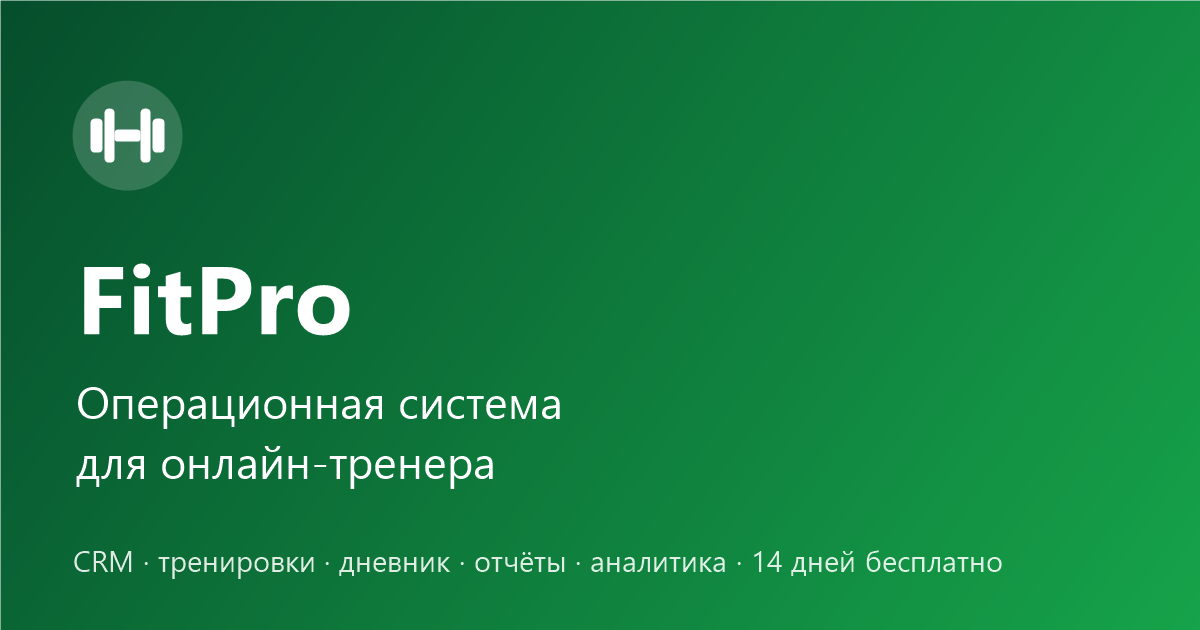
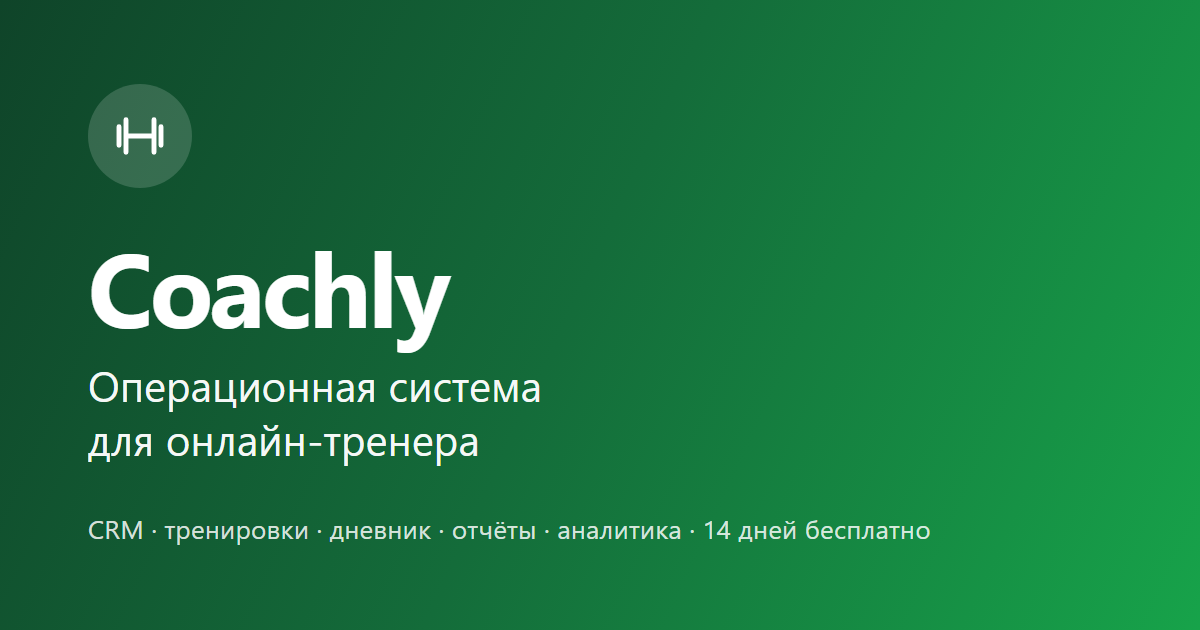
feat(brand): переименование FitPro → Coachly
Пользовательские тексты: интерфейс обоих кабинетов, лендинги, письма
(регистрация, подтверждение почты, сброс пароля, приглашение клиента),
заголовки пуш-уведомлений, описание платежа в ЮKassa, мета-теги и
og-картинка предпросмотра (перерисована), display name iOS и Android.

Идентификаторы НЕ тронуты намеренно: bundle com.oasixlab.fitpro,
имя Xcode-проекта FitPro (на него завязан codemagic.yaml), домен
fitpro.oasixlab.com, пути /opt/fitpro, ключи localStorage (fitpro-theme,
fitpro-draft — смена обнулила бы черновики и тему у пользователей),
демо-логины *@user.ru.

diff --git a/client/src/pages/ForClientsPage.tsx b/client/src/pages/ForClientsPage.tsx
@@ -106,7 +106,7 @@ const BENEFITS = [
 const STEPS = [
   {
     title: "Тренер присылает ссылку",
-    text: "Он создаёт вашу карточку в FitPro и копирует персональную ссылку (или отправляет её на почту). Без этой ссылки зарегистрироваться нельзя.",
+    text: "Он создаёт вашу карточку в Coachly и копирует персональную ссылку (или отправляет её на почту). Без этой ссылки зарегистрироваться нельзя.",
     tip: "Приглашение",
   },
   {
@@ -191,7 +191,7 @@ const PLUS_FEATURES = [
 const FAQ = [
   {
     q: "Сколько это стоит?",
-    a: "Для вас — бесплатно. Платформу оплачивает тренер. Дополнительные опции FitPro+ появятся позже и будут по желанию.",
+    a: "Для вас — бесплатно. Платформу оплачивает тренер. Дополнительные опции Coachly+ появятся позже и будут по желанию.",
   },
   {
     q: "Как попасть в кабинет?",
@@ -206,7 +206,7 @@ const FAQ = [
     a: "Только ваш тренер. Фото и замеры не попадают в общий доступ.",
   },
   {
-    q: "Тренер ещё не в FitPro. Что делать?",
+    q: "Тренер ещё не в Coachly. Что делать?",
     a: "Отправьте ему ссылку fitpro.oasixlab.com — у тренеров есть 14 дней бесплатного доступа.",
   },
 ];
@@ -229,7 +229,7 @@ const DEMO_ACCOUNTS = [
 export function ForClientsPage() {
   useEffect(() => {
     const prev = document.title;
-    document.title = "FitPro для клиента — тренировки, прогресс и тренер в одном кабинете";
+    document.title = "Coachly для клиента — тренировки, прогресс и тренер в одном кабинете";
     return () => {
       document.title = prev;
     };
@@ -243,7 +243,7 @@ export function ForClientsPage() {
             <div className="flex h-9 w-9 items-center justify-center rounded-xl bg-primary text-primary-foreground">
               <Dumbbell className="h-[18px] w-[18px]" />
             </div>
-            <span className="text-lg font-semibold tracking-tight">FitPro</span>
+            <span className="text-lg font-semibold tracking-tight">Coachly</span>
           </Link>
           <nav className="hidden items-center gap-1 text-sm font-medium text-muted-foreground lg:flex">
             {[
@@ -251,7 +251,7 @@ export function ForClientsPage() {
               { href: "#app", label: "Экраны" },
               { href: "#how", label: "Как начать" },
               { href: "#demo", label: "Демо" },
-              { href: "#plus", label: "FitPro+" },
+              { href: "#plus", label: "Coachly+" },
               { href: "#faq", label: "Вопросы" },
             ].map((item) => (
               <a
@@ -341,7 +341,7 @@ export function ForClientsPage() {
               </div>
               <img
                 src="/screens/m-client-home.png"
-                alt="Главная клиента FitPro"
+                alt="Главная клиента Coachly"
                 className="aspect-[9/19.5] w-full rounded-[1.55rem] object-cover object-top"
                 width={780}
                 height={1688}
@@ -413,7 +413,7 @@ export function ForClientsPage() {
         subtitle="Зайдите как клиент Мария — увидите программу, дневник и прогресс. Пароль один для обоих аккаунтов."
       />
 
-      <MktSection id="plus" eyebrow="FitPro+" title="Дополнительно — когда захотите больше">
+      <MktSection id="plus" eyebrow="Coachly+" title="Дополнительно — когда захотите больше">
         <div className="relative overflow-hidden rounded-2xl border border-primary/20 bg-gradient-to-br from-primary/[0.08] via-card to-card p-8 shadow-panel sm:p-10">
           <div className="pointer-events-none absolute -right-16 -top-16 h-48 w-48 rounded-full bg-primary/10 blur-3xl" />
           <div className="relative mb-8 max-w-2xl">
@@ -444,7 +444,7 @@ export function ForClientsPage() {
 
       <MktCtaBanner
         eyebrow="Готовы начать"
-        title="Попросите тренера перейти в FitPro"
+        title="Попросите тренера перейти в Coachly"
         subtitle="Если ссылка уже есть — входите. Если нет — отправьте тренеру fitpro.oasixlab.com: у него 14 дней бесплатно, у вас — удобный кабинет."
       >
         <Button size="lg" className="h-12 px-8" asChild>
@@ -461,7 +461,7 @@ export function ForClientsPage() {
         <div className="mx-auto flex max-w-6xl flex-col items-center gap-5 px-4 py-12 text-center">
           <div>
             <p className="type-eyebrow mb-2">Скачать</p>
-            <h2 className="text-xl font-semibold tracking-tight">FitPro в магазинах</h2>
+            <h2 className="text-xl font-semibold tracking-tight">Coachly в магазинах</h2>
           </div>
           <StoreBadges />
         </div>
@@ -473,7 +473,7 @@ export function ForClientsPage() {
             <div className="flex h-6 w-6 items-center justify-center rounded-md bg-primary text-primary-foreground">
               <Dumbbell className="h-3.5 w-3.5" />
             </div>
-            <span className="font-semibold text-foreground">FitPro Platform</span>
+            <span className="font-semibold text-foreground">Coachly</span>
           </div>
           <div className="flex flex-wrap items-center justify-center gap-x-5 gap-y-2">
             <Link to="/" className="transition-colors hover:text-foreground">
@@ -486,7 +486,7 @@ export function ForClientsPage() {
               FAQ
             </a>
           </div>
-          <p className="text-xs">© 2026 FitPro · для спортсменов и тренеров</p>
+          <p className="text-xs">© 2026 Coachly · для спортсменов и тренеров</p>
         </div>
       </footer>
     </div>

diff --git a/server/src/routes/auth.ts b/server/src/routes/auth.ts
@@ -75,15 +75,15 @@ authRouter.post(
       const code = await createEmailCode(user.email, "verify");
       await sendEmail({
         to: user.email,
-        subject: "Добро пожаловать в FitPro",
+        subject: "Добро пожаловать в Coachly",
         html: emailHtml({
           title: `Здравствуйте, ${user.name}!`,
           intro: `Аккаунт тренера создан, пробный период — ${TRIAL_DAYS} дней. Чтобы подтвердить почту, введите код в личном кабинете:`,
           code,
-          ctaText: "Открыть FitPro",
+          ctaText: "Открыть Coachly",
           ctaUrl: env.publicUrl,
         }),
-        text: `Добро пожаловать в FitPro! Код подтверждения почты: ${code}`,
+        text: `Добро пожаловать в Coachly! Код подтверждения почты: ${code}`,
       });
     })().catch((err) => console.error("register: welcome email:", err));
 
@@ -172,13 +172,13 @@ authRouter.post(
     const code = await createEmailCode(email, "verify");
     await sendEmail({
       to: email,
-      subject: "Подтверждение почты — FitPro",
+      subject: "Подтверждение почты — Coachly",
       html: emailHtml({
         title: "Подтвердите адрес почты",
-        intro: "Введите этот код в личном кабинете FitPro:",
+        intro: "Введите этот код в личном кабинете Coachly:",
         code,
       }),
-      text: `Код подтверждения почты FitPro: ${code} (действует 15 минут)`,
+      text: `Код подтверждения почты Coachly: ${code} (действует 15 минут)`,
     });
     res.json({ ok: true });
   }),
@@ -212,14 +212,14 @@ authRouter.post(
         const code = await createEmailCode(normalized, "reset");
         await sendEmail({
           to: normalized,
-          subject: "Сброс пароля — FitPro",
+          subject: "Сброс пароля — Coachly",
           html: emailHtml({
             title: "Сброс пароля",
             intro:
-              "Вы запросили сброс пароля в FitPro. Введите этот код на странице восстановления:",
+              "Вы запросили сброс пароля в Coachly. Введите этот код на странице восстановления:",
             code,
           }),
-          text: `Код сброса пароля FitPro: ${code} (действует 15 минут)`,
+          text: `Код сброса пароля Coachly: ${code} (действует 15 минут)`,
         });
       }
     }

diff --git a/client/index.html b/client/index.html
@@ -3,10 +3,10 @@
   <head>
     <meta charset="UTF-8" />
     <meta name="viewport" content="width=device-width, initial-scale=1.0" />
-    <title>FitPro — платформа онлайн-тренера</title>
+    <title>Coachly — платформа онлайн-тренера</title>
     <meta
       name="description"
-      content="FitPro — операционная система для онлайн-тренера: CRM клиентов, конструктор тренировок, дневник, отчёты, аналитика и финансы в одном кабинете. 14 дней бесплатно."
+      content="Coachly — операционная система для онлайн-тренера: CRM клиентов, конструктор тренировок, дневник, отчёты, аналитика и финансы в одном кабинете. 14 дней бесплатно."
     />
     <meta name="theme-color" media="(prefers-color-scheme: light)" content="#f5f1ea" />
     <meta name="theme-color" media="(prefers-color-scheme: dark)" content="#151515" />
@@ -24,15 +24,15 @@
     </script>
     <meta property="og:type" content="website" />
     <meta property="og:locale" content="ru_RU" />
-    <meta property="og:site_name" content="FitPro" />
-    <meta property="og:title" content="FitPro — платформа онлайн-тренера" />
+    <meta property="og:site_name" content="Coachly" />
+    <meta property="og:title" content="Coachly — платформа онлайн-тренера" />
     <meta
       property="og:description"
       content="CRM, тренировки, дневник, отчёты и аналитика — всё ведение клиентов в одном месте. 14 дней бесплатно."
     />
     <meta property="og:image" content="/og.png" />
     <meta name="twitter:card" content="summary_large_image" />
-    <meta name="twitter:title" content="FitPro — платформа онлайн-тренера" />
+    <meta name="twitter:title" content="Coachly — платформа онлайн-тренера" />
     <meta
       name="twitter:description"
       content="CRM, тренировки, дневник, отчёты и аналитика — всё ведение клиентов в одном месте."

diff --git a/client/src/pages/LandingPage.tsx b/client/src/pages/LandingPage.tsx
@@ -231,7 +231,7 @@ export function LandingPage() {
         <div className="mx-auto flex max-w-6xl items-center justify-between gap-3 px-4 py-3">
           <Link to="/" className="flex items-center gap-2.5 transition-opacity hover:opacity-90">
             <LogoMark />
-            <span className="text-lg font-semibold tracking-tight">FitPro</span>
+            <span className="text-lg font-semibold tracking-tight">Coachly</span>
           </Link>
           <nav className="hidden items-center gap-1 text-sm font-medium text-muted-foreground lg:flex">
             {[
@@ -477,7 +477,7 @@ export function LandingPage() {
         <MktSection
           eyebrow="Кому подойдёт"
           title="Если ведёте людей, а не только «чат»"
-          subtitle="FitPro для тех, у кого клиенты и сопровождение — основная работа, а не хобби в переписке."
+          subtitle="Coachly для тех, у кого клиенты и сопровождение — основная работа, а не хобби в переписке."
         >
           <MktCardGrid cols={3}>
             {AUDIENCE.map((a) => (
@@ -530,7 +530,7 @@ export function LandingPage() {
         <div className="mx-auto flex max-w-6xl flex-col items-center justify-between gap-5 px-4 py-10 text-sm text-muted-foreground md:flex-row">
           <div className="flex items-center gap-2.5">
             <LogoMark size="sm" />
-            <span className="font-semibold text-foreground">FitPro Platform</span>
+            <span className="font-semibold text-foreground">Coachly</span>
           </div>
           <div className="flex flex-wrap items-center justify-center gap-x-5 gap-y-2">
             <Link to="/for-clients" className="transition-colors hover:text-foreground">
@@ -546,7 +546,7 @@ export function LandingPage() {
               FAQ
             </a>
           </div>
-          <p className="text-xs">© 2026 FitPro · для тренеров и их клиентов</p>
+          <p className="text-xs">© 2026 Coachly · для тренеров и их клиентов</p>
         </div>
       </footer>
     </div>

diff --git a/server/src/routes/clients.ts b/server/src/routes/clients.ts
@@ -132,14 +132,14 @@ clientsRouter.post(
         .where(eq(users.id, trainerId));
       void sendEmail({
         to: email,
-        subject: "Приглашение в FitPro",
+        subject: "Приглашение в Coachly",
         html: emailHtml({
-          title: "Вас приглашают в FitPro",
-          intro: `Тренер ${escapeHtml(trainer?.name ?? "")} приглашает вас (${escapeHtml(client.name)}) в личный кабинет FitPro: тренировки, дневник, замеры и отчёты в одном месте.`,
+          title: "Вас приглашают в Coachly",
+          intro: `Тренер ${escapeHtml(trainer?.name ?? "")} приглашает вас (${escapeHtml(client.name)}) в личный кабинет Coachly: тренировки, дневник, замеры и отчёты в одном месте.`,
           ctaText: "Принять приглашение",
           ctaUrl: link,
         }),
-        text: `Тренер приглашает вас в FitPro. Ссылка: ${link} (действует 7 дней)`,
+        text: `Тренер приглашает вас в Coachly. Ссылка: ${link} (действует 7 дней)`,
       }).catch((err) => console.error("invite email:", err));
     }
 

diff --git a/server/src/services/email.ts b/server/src/services/email.ts
@@ -28,7 +28,7 @@ export function escapeHtml(value: string): string {
     .replaceAll("'", "&#39;");
 }
 
-/** Письмо в дизайне FitPro: зелёный акцент (как primary в Tailwind-теме), карточка, крупный код. */
+/** Письмо в дизайне Coachly: зелёный акцент (как primary в Tailwind-теме), карточка, крупный код. */
 export function emailHtml(opts: {
   title: string;
   intro: string;
@@ -40,15 +40,15 @@ export function emailHtml(opts: {
   return `<!doctype html><html lang="ru"><body style="margin:0;padding:0;background:#f3f5f4;font-family:-apple-system,'Segoe UI',Roboto,Arial,sans-serif;">
 <table role="presentation" width="100%" cellpadding="0" cellspacing="0" style="background:#f3f5f4;padding:32px 16px;"><tr><td align="center">
 <table role="presentation" width="100%" cellpadding="0" cellspacing="0" style="max-width:480px;background:#ffffff;border-radius:16px;overflow:hidden;">
-<tr><td style="background:#16a34a;padding:20px 32px;"><span style="color:#ffffff;font-size:20px;font-weight:700;">FitPro</span></td></tr>
+<tr><td style="background:#16a34a;padding:20px 32px;"><span style="color:#ffffff;font-size:20px;font-weight:700;">Coachly</span></td></tr>
 <tr><td style="padding:32px;">
 <h1 style="margin:0 0 12px;font-size:20px;color:#111827;">${title}</h1>
 <p style="margin:0 0 20px;font-size:15px;line-height:1.6;color:#4b5563;">${intro}</p>
 ${code ? `<div style="margin:0 0 16px;padding:16px;background:#f0fdf4;border:1px solid #bbf7d0;border-radius:12px;text-align:center;font-size:28px;letter-spacing:8px;font-weight:700;color:#15803d;">${code}</div>
 <p style="margin:0 0 20px;font-size:13px;color:#6b7280;">Код действует 15 минут. Если вы его не запрашивали — просто проигнорируйте это письмо.</p>` : ""}
-${ctaUrl ? `<a href="${ctaUrl}" style="display:inline-block;padding:12px 24px;background:#16a34a;color:#ffffff;border-radius:10px;text-decoration:none;font-weight:600;font-size:15px;">${ctaText || "Открыть FitPro"}</a>` : ""}
+${ctaUrl ? `<a href="${ctaUrl}" style="display:inline-block;padding:12px 24px;background:#16a34a;color:#ffffff;border-radius:10px;text-decoration:none;font-weight:600;font-size:15px;">${ctaText || "Открыть Coachly"}</a>` : ""}
 </td></tr>
-<tr><td style="padding:20px 32px;border-top:1px solid #eef2f0;"><p style="margin:0;font-size:12px;color:#9ca3af;">Письмо отправлено автоматически — отвечать на него не нужно.<br>© FitPro</p></td></tr>
+<tr><td style="padding:20px 32px;border-top:1px solid #eef2f0;"><p style="margin:0;font-size:12px;color:#9ca3af;">Письмо отправлено автоматически — отвечать на него не нужно.<br>© Coachly</p></td></tr>
 </table></td></tr></table></body></html>`;
 }
 

diff --git a/client/public/push-sw.js b/client/public/push-sw.js
@@ -5,10 +5,10 @@ self.addEventListener("push", (event) => {
   try {
     data = event.data ? event.data.json() : {};
   } catch {
-    data = { title: "FitPro", body: event.data ? event.data.text() : "Новое уведомление" };
+    data = { title: "Coachly", body: event.data ? event.data.text() : "Новое уведомление" };
   }
 
-  const title = data.title || "FitPro";
+  const title = data.title || "Coachly";
   const options = {
     body: data.body || "Новое уведомление",
     icon: "/favicon.svg",

diff --git a/client/src/components/AuthShell.tsx b/client/src/components/AuthShell.tsx
@@ -34,7 +34,7 @@ export function AuthShell({ children }: { children: React.ReactNode }) {
           <Dumbbell className="h-5 w-5" />
         </div>
         <div>
-          <span className="block text-lg font-semibold tracking-tight leading-none">FitPro</span>
+          <span className="block text-lg font-semibold tracking-tight leading-none">Coachly</span>
           <span className="mt-1 block text-[10px] font-medium uppercase tracking-[0.16em] text-muted-foreground">
             Platform
           </span>

diff --git a/client/src/components/ScreenshotGallery.tsx b/client/src/components/ScreenshotGallery.tsx
@@ -73,7 +73,7 @@ export function ScreenshotGallery({
                 <div className="overflow-hidden rounded-[1.4rem] bg-muted/30">
                   <img
                     src={s.src}
-                    alt={`${s.title} — экран FitPro`}
+                    alt={`${s.title} — экран Coachly`}
                     loading="lazy"
                     width={780}
                     height={1688}

diff --git a/client/src/components/layout/AppLayout.tsx b/client/src/components/layout/AppLayout.tsx
@@ -289,7 +289,7 @@ function Brand({ compact }: { compact?: boolean }) {
         <Dumbbell className="h-[18px] w-[18px]" />
       </div>
       <div className="min-w-0">
-        <p className="text-base font-bold tracking-tight">FitPro</p>
+        <p className="text-base font-bold tracking-tight">Coachly</p>
         {!compact && (
           <p className="text-[10px] font-medium uppercase tracking-[0.16em] text-muted-foreground">
             Platform

diff --git a/client/src/index.css b/client/src/index.css
@@ -3,7 +3,7 @@
 @tailwind utilities;
 
 /*
- * FitPro Design System v4 — «Field House»
+ * Coachly Design System v4 — «Field House»
  * Спортивный продукт, не fintech-glass / не «AI landing».
  * Light: clean warm court + deep field green
  * Dark: solid locker-room ink + restrained emerald

diff --git a/client/src/pages/JoinPage.tsx b/client/src/pages/JoinPage.tsx
@@ -58,7 +58,7 @@ export function JoinPage() {
       <AuthCard>
         <CardHeader className="space-y-2 text-center">
           <CardTitle className="type-page-title">
-            {invite ? `Привет, ${invite.clientName}!` : "Приглашение в FitPro"}
+            {invite ? `Привет, ${invite.clientName}!` : "Приглашение в Coachly"}
           </CardTitle>
           <CardDescription className="text-balance leading-relaxed">
             {notFound ? (